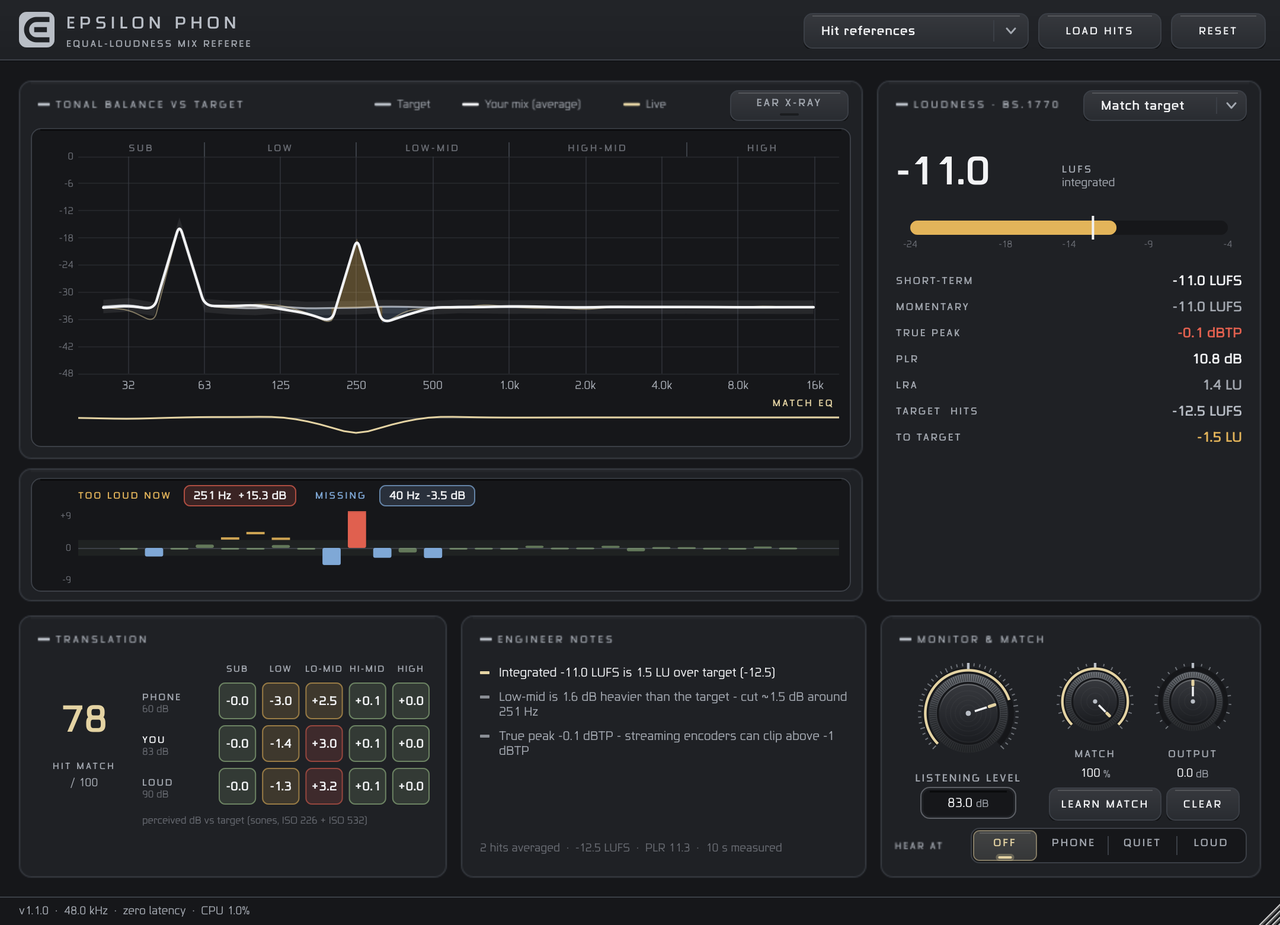
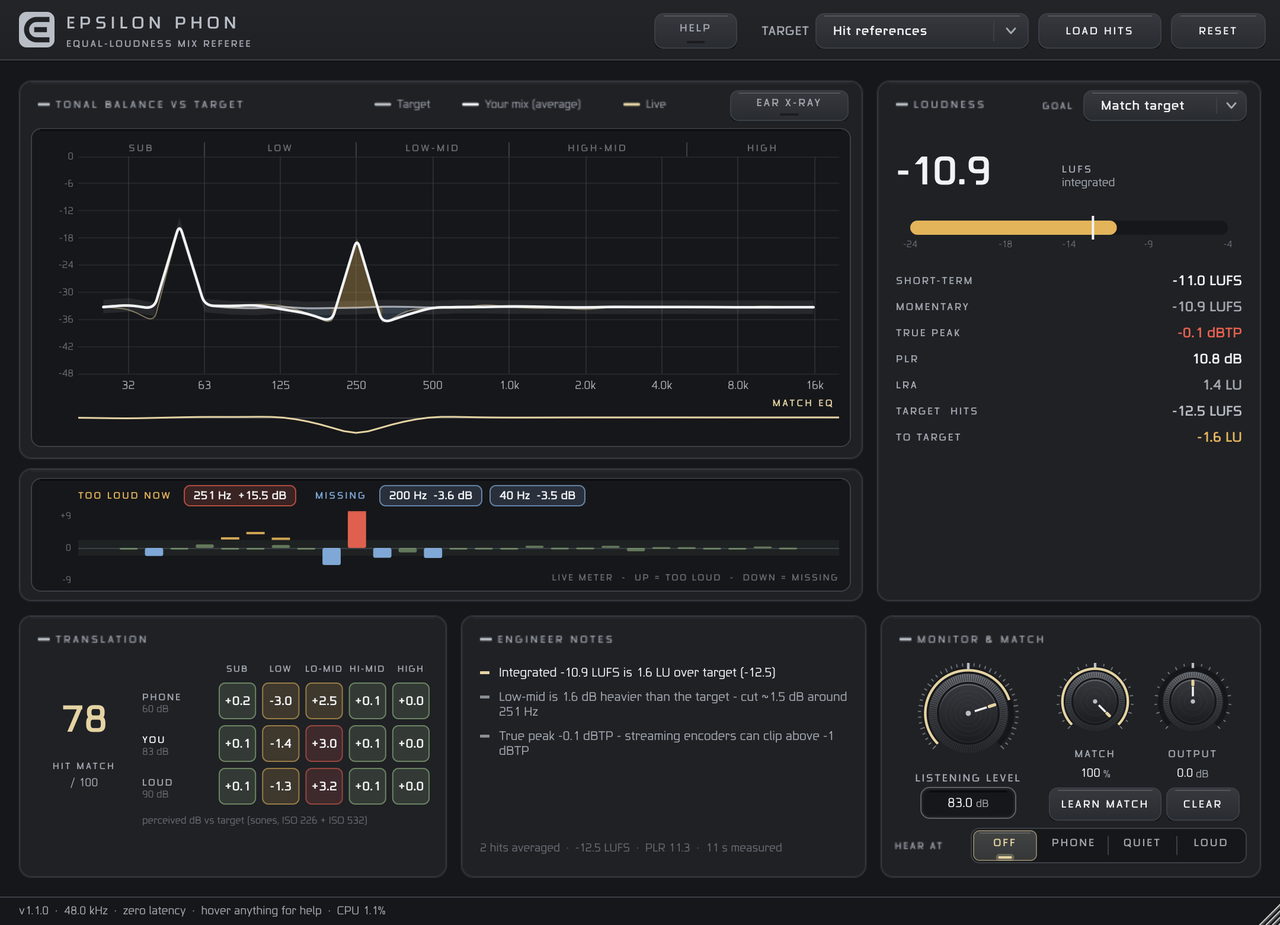
Built-in manual, hover help line and labels for every control
Help button opens a scrollable manual inside the plugin; one list feeds
tooltips, the bottom-bar hover help and the manual. Target and Goal labels.

Claude-Session: https://claude.ai/code/session_01P8mjUTcwNhSR5tFB7rGJbR

diff --git a/Source/PluginEditor.cpp b/Source/PluginEditor.cpp
@@ -272,6 +272,9 @@ void LiveMeter::paint(juce::Graphics& g)
         g.drawText(t, box, juce::Justification::centred, false);
         x += w + 6.0f;
     };
+    g.setFont(font(Weight::Bold, 9.0f).withExtraKerningFactor(0.14f));
+    g.setColour(faint(pal()));
+    g.drawText("LIVE METER  -  UP = TOO LOUD  -  DOWN = MISSING", juce::Rectangle<float>(r.getRight() - 320.0f, r.getBottom() - 12.0f, 320.0f, 12.0f), juce::Justification::centredRight, false);
     if (! haveTarget) label("LIVE  -  LOAD HITS OR PICK A GENRE TO JUDGE AGAINST", faint(pal()));
     else if (! tracker.active) label("LIVE  -  WAITING FOR AUDIO", faint(pal()));
     else
@@ -445,6 +448,155 @@ void NotesView::paint(juce::Graphics& g)
 }
 
 //==============================================================================
+// HelpOverlay
+HelpOverlay::HelpOverlay()
+{
+    setOpaque(true);
+    viewport.setViewedComponent(&content, false);
+    viewport.setScrollBarsShown(true, false);
+    viewport.setScrollBarThickness(10);
+    viewport.getVerticalScrollBar().setColour(juce::ScrollBar::thumbColourId, pal().trim.withAlpha(0.6f));
+    addAndMakeVisible(viewport);
+    addAndMakeVisible(closeButton);
+    closeButton.onClick = [this] { if (onClose) onClose(); };
+}
+void HelpOverlay::setSections(std::vector<Section> s) { content.sections = std::move(s); resized(); }
+void HelpOverlay::resized()
+{
+    auto r = getLocalBounds().reduced(size::space4);
+    auto top = r.removeFromTop(34);
+    closeButton.setBounds(top.removeFromRight(90).withSizeKeepingCentre(90, 28));
+    r.removeFromTop(6);
+    viewport.setBounds(r);
+    const int w = r.getWidth() - viewport.getScrollBarThickness() - 4;
+    content.setSize(w, content.layout(w));
+}
+void HelpOverlay::paint(juce::Graphics& g)
+{
+    g.fillAll(pal().bg);
+    auto r = getLocalBounds().reduced(size::space4).removeFromTop(34).toFloat();
+    drawSectionLabel(g, { r.getX() + 2.0f, r.getCentreY() }, "Epsilon Phon manual", pal());
+    g.setColour(faint(pal()));
+    g.setFont(caption());
+    g.drawText("Scroll for more. Hover any control in the plugin to read what it does in the bottom bar.", r.withTrimmedLeft(210.0f).withTrimmedRight(100.0f), juce::Justification::centredLeft, true);
+}
+int HelpOverlay::Content::layout(int width)
+{
+    rows.clear();
+    const float nameW = 170.0f, pad = 16.0f;
+    float y = 4.0f;
+    for (auto& sec : sections)
+    {
+        Row h; h.heading = true; h.name = sec.title; h.y = y + 10.0f; h.h = 30.0f;
+        rows.push_back(std::move(h));
+        y += 44.0f;
+        for (auto& it : sec.items)
+        {
+            Row r; r.name = it.name;
+            juce::AttributedString a;
+            a.append(it.text, font(Weight::Medium, 13.5f), pal().ink.withAlpha(0.86f));
+            a.setWordWrap(juce::AttributedString::byWord);
+            a.setLineSpacing(3.0f);
+            r.text.createLayout(a, (float) width - nameW - pad * 2.0f);
+            r.y = y; r.h = juce::jmax(20.0f, r.text.getHeight());
+            y += r.h + 12.0f;
+            rows.push_back(std::move(r));
+        }
+        y += 8.0f;
+    }
+    return (int) y + 12;
+}
+void HelpOverlay::Content::paint(juce::Graphics& g)
+{
+    const float nameW = 170.0f, pad = 16.0f;
+    const auto clip = g.getClipBounds().toFloat();
+    for (auto& r : rows)
+    {
+        if (r.y > clip.getBottom() || r.y + r.h + 20.0f < clip.getY()) continue;
+        if (r.heading)
+        {
+            g.setColour(pal().surface);
+            g.fillRoundedRectangle(0.0f, r.y, (float) getWidth(), r.h, 6.0f);
+            g.setColour(pal().live);
+            g.fillRoundedRectangle(pad, r.y + r.h * 0.5f - 1.25f, 10.0f, 2.5f, 0.5f);
+            g.setColour(pal().ink);
+            g.setFont(font(Weight::Bold, 12.0f).withExtraKerningFactor(0.18f));
+            g.drawText(r.name.toUpperCase(), juce::Rectangle<float>(pad + 18.0f, r.y, (float) getWidth() - 60.0f, r.h), juce::Justification::centredLeft, false);
+        }
+        else
+        {
+            g.setColour(pal().trim);
+            g.setFont(font(Weight::Bold, 12.5f));
+            g.drawFittedText(r.name, juce::Rectangle<float>(pad, r.y, nameW - 12.0f, 34.0f).toNearestInt(), juce::Justification::topLeft, 2);
+            r.text.draw(g, juce::Rectangle<float>(pad + nameW, r.y, (float) getWidth() - nameW - pad * 2.0f, r.h));
+        }
+    }
+}
+
+//==============================================================================
+void EpsilonPhonEditor::describe(juce::Component& c, const juce::String& name, const juce::String& text)
+{
+    helpEntries.push_back({ &c, name, text });
+    if (auto* k = dynamic_cast<epsilon_ui::Knob*>(&c)) k->setTooltip(text);
+    else if (auto* t = dynamic_cast<juce::SettableTooltipClient*>(&c)) t->setTooltip(text);
+}
+
+std::vector<HelpOverlay::Section> EpsilonPhonEditor::manual() const
+{
+    std::vector<HelpOverlay::Section> m;
+    m.push_back({ "Quick start", {
+        { "1  Place it", "Put Epsilon Phon LAST on your master channel, after your limiter. It adds no latency." },
+        { "2  Set the standard", "Press LOAD HITS and choose 1-10 finished hit records in your exact style (or drag them onto the plugin). They are averaged into one target. No records handy? Pick a genre in TARGET." },
+        { "3  Set your volume", "Turn LISTENING LEVEL to how loud your speakers really are at your seat. Don't know? Leave it at 79 dB (small room)." },
+        { "4  Play the whole song", "Watch the LIVE METER: anything amber or red is louder than it should be right now, and it is named in words (for example TOO LOUD NOW 251 Hz +4.2 dB). Blue means missing." },
+        { "5  Fix and check", "Read ENGINEER NOTES for the biggest fixes, fix them in your mix, press RESET and play again. HIT MATCH climbing toward 100 means you are closing in on the hits." } } });
+
+    HelpOverlay::Section controls { "Every button and knob", {} };
+    for (auto& e : helpEntries) controls.items.push_back({ e.name, e.text });
+    m.push_back(std::move(controls));
+
+    m.push_back({ "Reading the loudness numbers", {
+        { "Integrated LUFS", "The loudness of everything since you pressed Reset - the one number streaming services measure. Play the full song to get a true reading." },
+        { "Short-term", "Loudness of the last 3 seconds. Tells you how loud the current section (hook, verse) is. This is what the bar shows." },
+        { "Momentary", "Loudness of the last 0.4 seconds. Follows individual hits and words." },
+        { "True peak (dBTP)", "The highest peak, including peaks between samples. Turns red above -1 dBTP: streaming encoders can distort above that." },
+        { "PLR", "Peak-to-loudness ratio: true peak minus integrated. How much punch is left. Around 9 dB is typical for current hits; much less means it is squashed." },
+        { "LRA", "Loudness range: how much the loudness moves between quiet and loud sections." },
+        { "Target / To target", "The loudness goal and how many LU you must go up (+) or down (-) to reach it." },
+        { "White tick on the bar", "The loudness goal. The bar turns green when the current section is within 1 LU of it." } } });
+
+    m.push_back({ "Colours and words", {
+        { "Amber / red", "Louder than the target. Amber = 2-4 dB over, red = more than 4 dB over." },
+        { "Blue", "Quieter than the target (missing)." },
+        { "Green", "Within tolerance. In the live meter the green zone is +-2 dB." },
+        { "Platinum line", "The target (your hits or the genre curve), shown at the same loudness as your mix. The soft band around it is +-1.5 dB." },
+        { "White line", "Your mix's average since Reset. The thin champagne line is the last fraction of a second." },
+        { "Sub, Low, Low-mid, High-mid, High", "The five ranges: under 63 Hz, 63-250 Hz, 250 Hz-1 kHz, 1-5 kHz, above 5 kHz." },
+        { "Phon / sones", "Phon is how loud something sounds, not how loud it measures. Sones are the same idea on a scale where double the number sounds twice as loud. The Translation numbers use them." } } });
+
+    m.push_back({ "Why volume changes your mix (Fletcher-Munson)", {
+        { "The effect", "Your ears hear bass and extreme treble worse at low volume than at high volume. The same mix sounds thin when quiet and bass-heavy when loud. The modern measurement of this is the ISO 226 standard, which this plugin uses." },
+        { "What goes wrong", "Mix quietly and you add too much bass and top. Mix loud and you add too little. Either way the mix falls apart on other systems." },
+        { "What to do", "Pick one moderate monitor level and stay there (about 79 dB SPL in a small room, 83-85 in a large one), compare against real hits at the same loudness, and check phone and loud playback with HEAR AT and the TRANSLATION grid." },
+        { "Calibrating", "Play pink noise at -20 dBFS RMS, hold a sound-level meter (C-weighted, slow) at your seat, and set your speaker volume until it reads your chosen level. Mark that position on the volume knob." } } });
+
+    m.push_back({ "Good to know", {
+        { "Before you bounce", "Set HEAR AT to OFF - it is for listening only and would be printed into your file. The bottom bar warns you while it is on. MATCH is printed on purpose: set it to 0 % if you only want to measure." },
+        { "Best references", "Use recent, mastered hits in your own lane (dembow against dembow, drill against drill). 3-10 records give a steadier target than one." },
+        { "Genre curves", "The built-in genre targets are models shaped from published averages, not measurements of specific songs. Your own loaded hits are always the more accurate standard." },
+        { "The live meter jumps", "That is normal: a kick or a vocal note really does poke out for a moment. Worry about bands that stay amber or red, or keep being named." },
+        { "Limits", "Matching the hits' balance puts you in the right zone; it does not replace your taste. Some hit records break the rules on purpose." } } });
+    return m;
+}
+
+void EpsilonPhonEditor::showHelp(bool shouldShow)
+{
+    if (shouldShow) { help.setSections(manual()); help.toFront(false); }
+    help.setVisible(shouldShow);
+    helpButton.setToggleState(shouldShow, juce::dontSendNotification);
+}
+
+//==============================================================================
 EpsilonPhonEditor::EpsilonPhonEditor(EpsilonPhonProcessor& p) : AudioProcessorEditor(&p), proc(p)
 {
     setLookAndFeel(&look);
@@ -456,34 +608,53 @@ EpsilonPhonEditor::EpsilonPhonEditor(EpsilonPhonProcessor& p) : AudioProcessorEd
 
     targetBox.addItemList(EpsilonPhonProcessor::targetChoices(), 1);
     targetAtt = std::make_unique<juce::AudioProcessorValueTreeState::ComboBoxAttachment>(proc.state, "target", targetBox);
-    targetBox.setTooltip("What 'standard hit' means: your loaded hit records, or a modelled genre curve");
     loudBox.addItemList({ "Match target", "Streaming -14", "Apple -16", "Club -7" }, 1);
     loudAtt = std::make_unique<juce::AudioProcessorValueTreeState::ComboBoxAttachment>(proc.state, "loudTarget", loudBox);
-    loudBox.setTooltip("Loudness goal. 'Match target' uses the hits' own measured integrated loudness");
 
-    loadButton.setTooltip("Load one or more hit records (WAV/AIFF/FLAC/MP3). Several are averaged into one target");
     loadButton.onClick = [this] { chooseFiles(); };
-    resetButton.setTooltip("Start a new measurement (spectrum average + integrated loudness)");
     resetButton.onClick = [this] { proc.resetAnalysis(); };
-    learnButton.setTooltip("Take the correction from your mix's average vs the target and arm the Match EQ (max +-6 dB per octave)");
     learnButton.onClick = [this] { proc.learnMatch(); };
-    clearButton.setTooltip("Forget the learned match curve");
     clearButton.onClick = [this] { proc.clearMatch(); };
     xrayButton.setClickingTogglesState(true);
     xrayButton.setToggleState((bool) proc.state.state.getProperty("earXray", false), juce::dontSendNotification);
-    xrayButton.setTooltip("Ear X-ray: redraw the balance through the ISO 226 equal-loudness contour at your listening level - what you actually hear");
     xrayButton.onClick = [this] { proc.state.state.setProperty("earXray", xrayButton.getToggleState(), nullptr); timerCallback(); };
-    listenKnob.setTooltip("How loud you monitor at the seat (dB SPL, C-weighted). 79 dB small room, 83-85 dB large room");
-    matchKnob.setTooltip("How much of the learned Match EQ goes on the mix (this IS printed to the bounce)");
-    outputKnob.setTooltip("Output gain (before the meter)");
-    hearAt.setTooltip("Hear your mix as it would sound at another volume, loudness-matched (ISO 226). Monitor only - turn Off before bouncing");
 
-    for (juce::Component* c : std::initializer_list<juce::Component*> { &loadButton, &resetButton, &targetBox, &graph, &live, &grid, &loudness, &notes,
+
+    helpButton.setClickingTogglesState(true);
+    helpButton.onClick = [this] { showHelp(helpButton.getToggleState()); };
+    help.onClose = [this] { showHelp(false); };
+
+    // One list feeds the tooltips, the hover-help line in the bottom bar and the manual.
+    describe(helpButton, "HELP", "Opens the built-in manual: quick start, every control, how to read the numbers.");
+    describe(targetBox, "TARGET", "The standard you are judged against: 'Hit references' = the records you loaded, or a modelled genre curve.");
+    describe(loadButton, "LOAD HITS", "Choose 1-10 finished hit records (WAV, AIFF, FLAC, MP3). They are averaged into your target. You can also drag files onto the plugin.");
+    describe(resetButton, "RESET", "Starts a fresh measurement: clears the average curve and the integrated loudness. Press it after you change your mix.");
+    describe(xrayButton, "EAR X-RAY", "Redraws the graph the way your ears hear it at your listening level (ISO 226), instead of how a meter sees it.");
+    describe(graph, "TONAL BALANCE graph", "Bass on the left, treble on the right. White = your mix's average, platinum = the target, thin line = right now. Amber fill = too much, blue = too little.");
+    describe(live, "LIVE METER", "Real time: each bar is one frequency band against the target right now. Up amber/red = louder than it should be, down blue = missing. Worst ones are named above the bars.");
+    describe(loudBox, "GOAL", "Loudness goal for the meter: 'Match target' = as loud as your hits, or Streaming -14, Apple -16, Club -7 LUFS.");
+    describe(loudness, "LOUDNESS panel", "Integrated = whole song (what streaming measures). Short-term = last 3 s. True peak red = above -1 dBTP. PLR = punch left. To target = how far to go.");
+    describe(grid, "TRANSLATION grid", "How each range SOUNDS against the hits at phone volume (60 dB), your volume, and loud (90 dB). + = heavier, - = thinner. Green is good. HIT MATCH is the overall score.");
+    describe(notes, "ENGINEER NOTES", "The biggest fixes in plain words, most important first. Appear after about 8 seconds of audio.");
+    describe(listenKnob, "LISTENING LEVEL", "How loud your speakers are at your seat, in dB SPL. 79 = small room, 83-85 = large room. Sets what Ear X-ray, Translation and Hear At are based on.");
+    describe(matchKnob, "MATCH", "How much of the learned Match EQ is applied to your mix. This IS printed when you bounce. 0 % = measure only.");
+    describe(outputKnob, "OUTPUT", "Output volume trim in dB, applied before the loudness meter.");
+    describe(learnButton, "LEARN MATCH", "Works out a gentle 10-band EQ (max 6 dB per band) that moves your mix's average toward the target, and switches it on. Play at least 10 s first.");
+    describe(clearButton, "CLEAR", "Removes the learned Match EQ.");
+    describe(hearAt, "HEAR AT", "Lets you hear your mix as it would sound at Phone, Quiet or Loud volume without touching your speakers. Listening only - set to OFF before bouncing.");
+
+    for (juce::Component* c : std::initializer_list<juce::Component*> { &helpButton, &loadButton, &resetButton, &targetBox, &graph, &live, &grid, &loudness, &notes,
                                                                          &learnButton, &clearButton, &xrayButton, &loudBox, &listenKnob, &matchKnob, &outputKnob, &hearAt })
         addAndMakeVisible(c);
 
     setResizable(true, true);
-    live.setInterceptsMouseClicks(false, false);
+    targetCaption.setText("TARGET", juce::dontSendNotification);
+    targetCaption.setFont(font(Weight::Bold, 9.5f).withExtraKerningFactor(0.16f));
+    targetCaption.setColour(juce::Label::textColourId, pal().inkMuted);
+    targetCaption.setJustificationType(juce::Justification::centredRight);
+    targetCaption.setInterceptsMouseClicks(false, false);
+    addAndMakeVisible(targetCaption);
+    addChildComponent(help);
     setResizeLimits(960, 700, 1600, 1100);
     setSize(1080, 780);
     timerCallback();
@@ -494,7 +665,8 @@ EpsilonPhonEditor::~EpsilonPhonEditor() { setLookAndFeel(nullptr); }
 
 juce::String EpsilonPhonEditor::statusText() const
 {
-    juce::String s = juce::String(proc.getSampleRateSafe() / 1000.0, 1) + " kHz  \xc2\xb7  zero latency";
+    if (hoverHelp.isNotEmpty()) return hoverHelp;
+    juce::String s = juce::String(proc.getSampleRateSafe() / 1000.0, 1) + " kHz  \xc2\xb7  zero latency  \xc2\xb7  hover anything for help";
     const int h = (int) proc.state.getRawParameterValue("hearAt")->load();
     if (h > 0) s << "  \xc2\xb7  HEAR AT " << EpsilonPhonProcessor::hearAtChoices()[h].toUpperCase() << " ON: MONITOR ONLY, TURN OFF BEFORE BOUNCING";
     return s;
@@ -509,13 +681,14 @@ void EpsilonPhonEditor::paint(juce::Graphics& g)
         cg.fillAll(pal().bg);
         drawPanel(cg, heroPanel.toFloat(), pal(), "Tonal balance vs target");
         drawPanel(cg, livePanel.toFloat(), pal());
-        drawPanel(cg, loudPanel.toFloat(), pal(), juce::String::fromUTF8("Loudness \xc2\xb7 BS.1770"));
+        drawPanel(cg, loudPanel.toFloat(), pal(), "Loudness");
         drawPanel(cg, gridPanel.toFloat(), pal(), "Translation");
         drawPanel(cg, notesPanel.toFloat(), pal(), "Engineer notes");
         drawPanel(cg, ctrlPanel.toFloat(), pal(), "Monitor & match");
         cg.setColour(pal().inkMuted);
         cg.setFont(font(Weight::Bold, 9.5f).withExtraKerningFactor(0.16f));
         cg.drawText("HEAR AT", hearLabel, juce::Justification::centredLeft, false);
+        cg.drawText("GOAL", goalLabel, juce::Justification::centredRight, false);
         // legend in hero panel
         auto lg = juce::Rectangle<int>(heroPanel.getX() + 300, heroPanel.getY() + 12, 360, 16).toFloat();
         const auto item = [&](juce::Colour c, const juce::String& t, float w)
@@ -550,7 +723,11 @@ void EpsilonPhonEditor::resized()
     hc.removeFromRight(8);
     loadButton.setBounds(hc.removeFromRight(104).withSizeKeepingCentre(104, 30));
     hc.removeFromRight(8);
-    targetBox.setBounds(hc.removeFromRight(190).withSizeKeepingCentre(190, 30));
+    targetBox.setBounds(hc.removeFromRight(180).withSizeKeepingCentre(180, 30));
+    targetCaption.setBounds(hc.removeFromRight(62).withSizeKeepingCentre(62, 30));
+    hc.removeFromRight(4);
+    helpButton.setBounds(hc.removeFromRight(70).withSizeKeepingCentre(70, 30));
+    help.setBounds(getLocalBounds().withTrimmedTop(size::header).withTrimmedBottom(size::footer));
 
     r = r.reduced(size::space4);
     const int bottomH = juce::jmax(220, (int) (r.getHeight() * 0.33f));
@@ -570,6 +747,7 @@ void EpsilonPhonEditor::resized()
     xrayButton.setBounds(heroPanel.getRight() - 112, heroPanel.getY() + 8, 100, 26);
     graph.setBounds(heroPanel.reduced(10).withTrimmedTop(30));
     loudBox.setBounds(loudPanel.getRight() - 150, loudPanel.getY() + 8, 138, 26);
+    goalLabel = { loudBox.getX() - 60, loudBox.getY(), 52, 26 };
     loudness.setBounds(loudPanel.reduced(16).withTrimmedTop(26));
     grid.setBounds(gridPanel.reduced(12).withTrimmedTop(24));
     notes.setBounds(notesPanel.reduced(16).withTrimmedTop(26));
@@ -616,6 +794,15 @@ void EpsilonPhonEditor::filesDropped(const juce::StringArray& files, int, int)
 
 void EpsilonPhonEditor::timerCallback()
 {
+    {
+        // hover help: explain whatever is under the mouse in the bottom bar
+        juce::String h;
+        auto* under = juce::Desktop::getInstance().getMainMouseSource().getComponentUnderMouse();
+        for (auto* c = under; c != nullptr && c != this && h.isEmpty(); c = c->getParentComponent())
+            for (auto& e : helpEntries) if (e.comp == c) { h = e.name + ":  " + e.text; break; }
+        if (under == nullptr || ! isParentOf(under)) h = {};
+        if (h != hoverHelp) { hoverHelp = h; footer.repaint(); }
+    }
     const auto snap = proc.getSnapshot();
     {
         // real-time meter: every tick, so bars, holds and names keep moving (and release in silence)

diff --git a/Source/PluginEditor.h b/Source/PluginEditor.h
@@ -79,6 +79,32 @@ private:
     juce::String status;
 };
 
+// The built-in manual: opens over the plugin from the Help button. Scrollable; every control and
+// every display is explained from the same list that feeds the hover-help line and the tooltips.
+class HelpOverlay : public juce::Component
+{
+public:
+    struct Item { juce::String name, text; };
+    struct Section { juce::String title; std::vector<Item> items; };
+    HelpOverlay();
+    void setSections(std::vector<Section> s);
+    void paint(juce::Graphics&) override;
+    void resized() override;
+    std::function<void()> onClose;
+private:
+    struct Content : juce::Component
+    {
+        std::vector<Section> sections;
+        struct Row { bool heading = false; juce::String name; juce::TextLayout text; float y = 0, h = 0; };
+        std::vector<Row> rows;
+        int layout(int width);
+        void paint(juce::Graphics&) override;
+    };
+    juce::Viewport viewport;
+    Content content;
+    juce::TextButton closeButton { "Close" };
+};
+
 class EpsilonPhonEditor : public juce::AudioProcessorEditor, public juce::FileDragAndDropTarget, private juce::Timer
 {
 public:
@@ -91,6 +117,7 @@ public:
     void fileDragEnter(const juce::StringArray&, int, int) override { dragOver = true; repaint(); }
     void fileDragExit(const juce::StringArray&) override { dragOver = false; repaint(); }
     void refreshNow() { timerCallback(); }
+    void showHelp(bool shouldShow);
 
 private:
     EpsilonPhonProcessor& proc;
@@ -100,7 +127,15 @@ private:
     juce::TooltipWindow tooltips { this, 700 };
 
     juce::TextButton loadButton { "Load hits" }, resetButton { "Reset" }, learnButton { "Learn match" }, clearButton { "Clear" };
-    juce::TextButton xrayButton { "Ear X-ray" };
+    juce::TextButton xrayButton { "Ear X-ray" }, helpButton { "Help" };
+    HelpOverlay help;
+    struct HelpEntry { juce::Component* comp; juce::String name, text; };
+    std::vector<HelpEntry> helpEntries;
+    juce::String hoverHelp;
+    juce::Rectangle<int> goalLabel;
+    juce::Label targetCaption;
+    void describe(juce::Component&, const juce::String& name, const juce::String& text);
+    std::vector<HelpOverlay::Section> manual() const;
     juce::ComboBox targetBox, loudBox;
     std::unique_ptr<juce::AudioProcessorValueTreeState::ComboBoxAttachment> targetAtt, loudAtt;
     epsilon_ui::Knob listenKnob { proc.state, "listen", "Listening level", true };

diff --git a/Tests/PhonBench.cpp b/Tests/PhonBench.cpp
@@ -180,17 +180,18 @@ int main(int argc, char** argv)
             setParam(p, "match", 100.0f);
             p.resetAnalysis();
             play(p, sr, 10.0, mix);
-            for (int pass = 0; pass < 2; ++pass)
+            for (int pass = 0; pass < 3; ++pass)
             {
                 p.state.state.setProperty("earXray", pass == 1, nullptr);
                 std::unique_ptr<juce::AudioProcessorEditor> ed(p.createEditor());
                 auto* pe = dynamic_cast<EpsilonPhonEditor*>(ed.get());
                 ed->setSize(1080, 780);
                 for (int i = 0; i < 12; ++i) { play(p, sr, 0.1, mix); juce::MessageManager::getInstance()->runDispatchLoopUntil(20); if (pe) pe->refreshNow(); }
+                if (pe && pass == 2) pe->showHelp(true);
                 const auto t0 = juce::Time::getMillisecondCounterHiRes();
                 auto img = ed->createComponentSnapshot(ed->getLocalBounds(), true, 2.0f);
                 const auto ms = juce::Time::getMillisecondCounterHiRes() - t0;
-                auto file = snapDir.getChildFile(pass == 0 ? "epsilon-phon-editor.png" : "epsilon-phon-ear-xray.png");
+                auto file = snapDir.getChildFile(pass == 0 ? "epsilon-phon-editor.png" : pass == 1 ? "epsilon-phon-ear-xray.png" : "epsilon-phon-help.png");
                 file.deleteFile();
                 juce::PNGImageFormat png;
                 if (auto os = file.createOutputStream()) png.writeImageToStream(img, *os);

diff --git a/README.md b/README.md
@@ -2,6 +2,8 @@
 
 ![Epsilon Phon](docs/epsilon-phon-editor.png)
 
+![Built-in manual](docs/epsilon-phon-help.png)
+
 Your ears change their EQ with volume (Fletcher-Munson, today ISO 226). Epsilon Phon measures your mix the way the hits are measured, then shows what you actually hear at your listening level and at phone / loud volumes.
 
 **Put it last on your master, load 1–10 hit records in your lane, play your whole song.**
@@ -13,6 +15,7 @@ Your ears change their EQ with volume (Fletcher-Munson, today ISO 226). Epsilon 
 | Section | What it does |
 |---|---|
 | **Live meter (real time)** | Every band against the target *right now*: bars up (amber/red) = louder than it should be, down (blue) = missing, with peak-hold ticks. The worst offenders are named in words: `TOO LOUD NOW  251 Hz +4.2 dB`. Reacts within about a quarter of a second; gated in silence. |
+| **Help (built-in manual)** | The HELP button opens a scrollable manual inside the plugin: quick start, every button and knob, how to read the numbers, colours, Fletcher-Munson in plain words. Hover any control and the bottom bar explains it. |
 | Tonal balance vs target | Your mix's long-term third-octave balance (25 Hz–16 kHz) against the target, loudness-matched, with a live curve. Over = amber, under = blue. |
 | Ear X-ray | Redraws everything through the ISO 226 contour at your listening level — what your ears hear, not what the meter sees. |
 | Load hits / Target | Drop WAV/AIFF/FLAC (and MP3/M4A on macOS). Several records are averaged into one standard. Or pick a modelled genre curve: Trap, Drill, Dembow / Reggaeton, Hip-Hop, Pop, R&B, EDM, Rock. |
